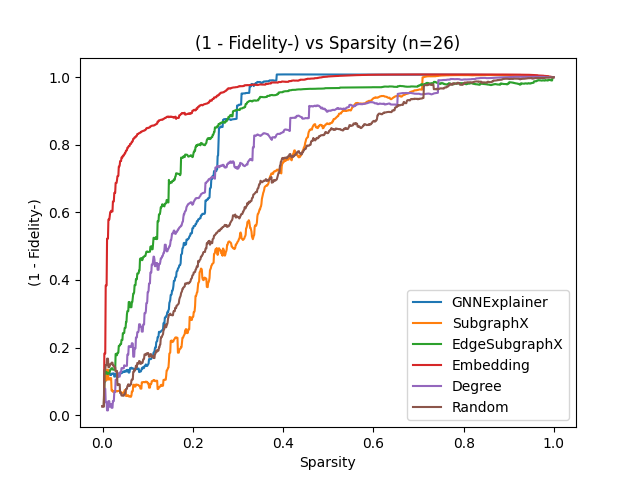
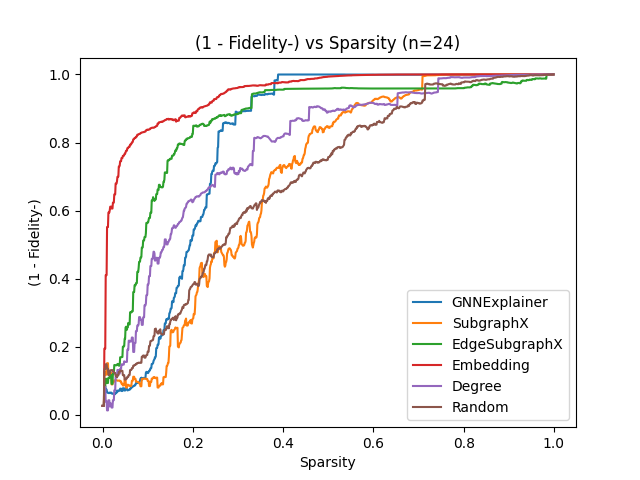
More results

diff --git a/src/experiments/vary_sparsity/viz_multiple.py b/src/experiments/vary_sparsity/viz_multiple.py
@@ -3,26 +3,24 @@ from collections import defaultdict
 
 import matplotlib.pyplot as plt
 
+from src.metrics.fidelity import charact_prob, fid_minus_prob, fid_plus_prob
+from src.utils import sigmoid
 
-def plot_data(all_data, filter=None):
-    sampler_names = [
-        "GNNExplainer",
-        "SubgraphX",
-        "EdgeSubgraphX",
-        "Embedding",
-        "Degree",
-        "Random",
-    ]
 
-    count = 0
-    x_samples = 1000
-    merged_necessary_results = defaultdict(lambda: [0 for _ in range(x_samples)])
-    merged_sufficient_results = defaultdict(lambda: [0 for _ in range(x_samples)])
-    merged_results = defaultdict(lambda: [0 for _ in range(x_samples)])
+def filter_data(all_data, filter=None):
+    filtered_data = {}
     for i, data in all_data.items():
-        n = len(data["sufficient"][sampler_names[0]])
-        # Filters out examples where the two nodes individually predict an edge
-        if data["sufficient"]["Random"][0] > 0.5:
+        # Only handles positive edge explanations currently
+        # 270-540 are negative edge labels
+        if int(i) > 270:
+            continue
+
+        n = len(data["Random"])
+        _, initial_pred, expl_pred, _ = data["Random"][0]
+        sig_initial_pred = sigmoid(initial_pred)
+        sig_expl_pred = sigmoid(expl_pred)
+        fid_minus = fid_minus_prob(sig_initial_pred, sig_expl_pred)
+        if 1 - fid_minus > 0.5:
             continue
         # Or where there are fewer than 10 neighbors
         if n < 10:
@@ -35,13 +33,59 @@ def plot_data(all_data, filter=None):
         if filter == "large" and n < 200:
             continue
 
-        count += 1
+        filtered_data[i] = data
+    return filtered_data
+
+
+def plot_data(filtered_data):
+    sampler_names = [
+        "GNNExplainer",
+        "SubgraphX",
+        "EdgeSubgraphX",
+        "Embedding",
+        "Degree",
+        "Random",
+    ]
+
+    processed_data = {}
+    for i, data in filtered_data.items():
+        processed_data[i] = {}
+        n = len(data["Random"])
+        for name in sampler_names:
+            processed_data[i][name] = []
+            for j in range(n):
+                _, initial_pred, expl_pred, remove_pred = data[name][j]
+                sig_initial_pred = sigmoid(initial_pred)
+                sig_expl_pred = sigmoid(expl_pred)
+                sig_remove_pred = sigmoid(remove_pred)
+                fid_minus = fid_minus_prob(sig_initial_pred, sig_expl_pred)
+                fid_plus = fid_plus_prob(sig_initial_pred, sig_remove_pred)
+                charact = charact_prob(
+                    sig_initial_pred, sig_expl_pred, sig_remove_pred, 0.2, 0.8
+                )
+                fid_minus = min(max(fid_minus.item(), 0), 1)
+                fid_plus = min(max(fid_plus.item(), 0), 1)
+                charact = min(max(charact.item(), 0), 1)
+                processed_data[i][name].append(
+                    {"fid_minus": fid_minus, "fid_plus": fid_plus, "charact": charact}
+                )
+
+    count = len(processed_data)
+    x_samples = 1000
+    merged_necessary_results = defaultdict(lambda: [0 for _ in range(x_samples)])
+    merged_sufficient_results = defaultdict(lambda: [0 for _ in range(x_samples)])
+    merged_results = defaultdict(lambda: [0 for _ in range(x_samples)])
+    for _, data in processed_data.items():
+        n = len(data["Random"])
         for name in sampler_names:
             for j in range(x_samples):
                 best_x = int(j / x_samples * n)
-                merged_sufficient_results[name][j] += data["sufficient"][name][best_x]
-                merged_necessary_results[name][j] += data["necessary"][name][best_x]
-                merged_results[name][j] += data["characterization"][name][best_x]
+                fid_minus = data[name][best_x]["fid_minus"]
+                fid_plus = data[name][best_x]["fid_plus"]
+                charact = data[name][best_x]["charact"]
+                merged_sufficient_results[name][j] += 1 - fid_minus
+                merged_necessary_results[name][j] += fid_plus
+                merged_results[name][j] += charact
 
     cutoff = int(x_samples)
     for result, result_label in zip(
@@ -65,4 +109,5 @@ def plot_data(all_data, filter=None):
 if __name__ == "__main__":
     with open("./results/vary_sparsity/data_600.json", "r") as f:
         all_data = json.load(f)
-    plot_data(all_data, "large")
+    filtered_data = filter_data(all_data, filter="large")
+    plot_data(filtered_data)
